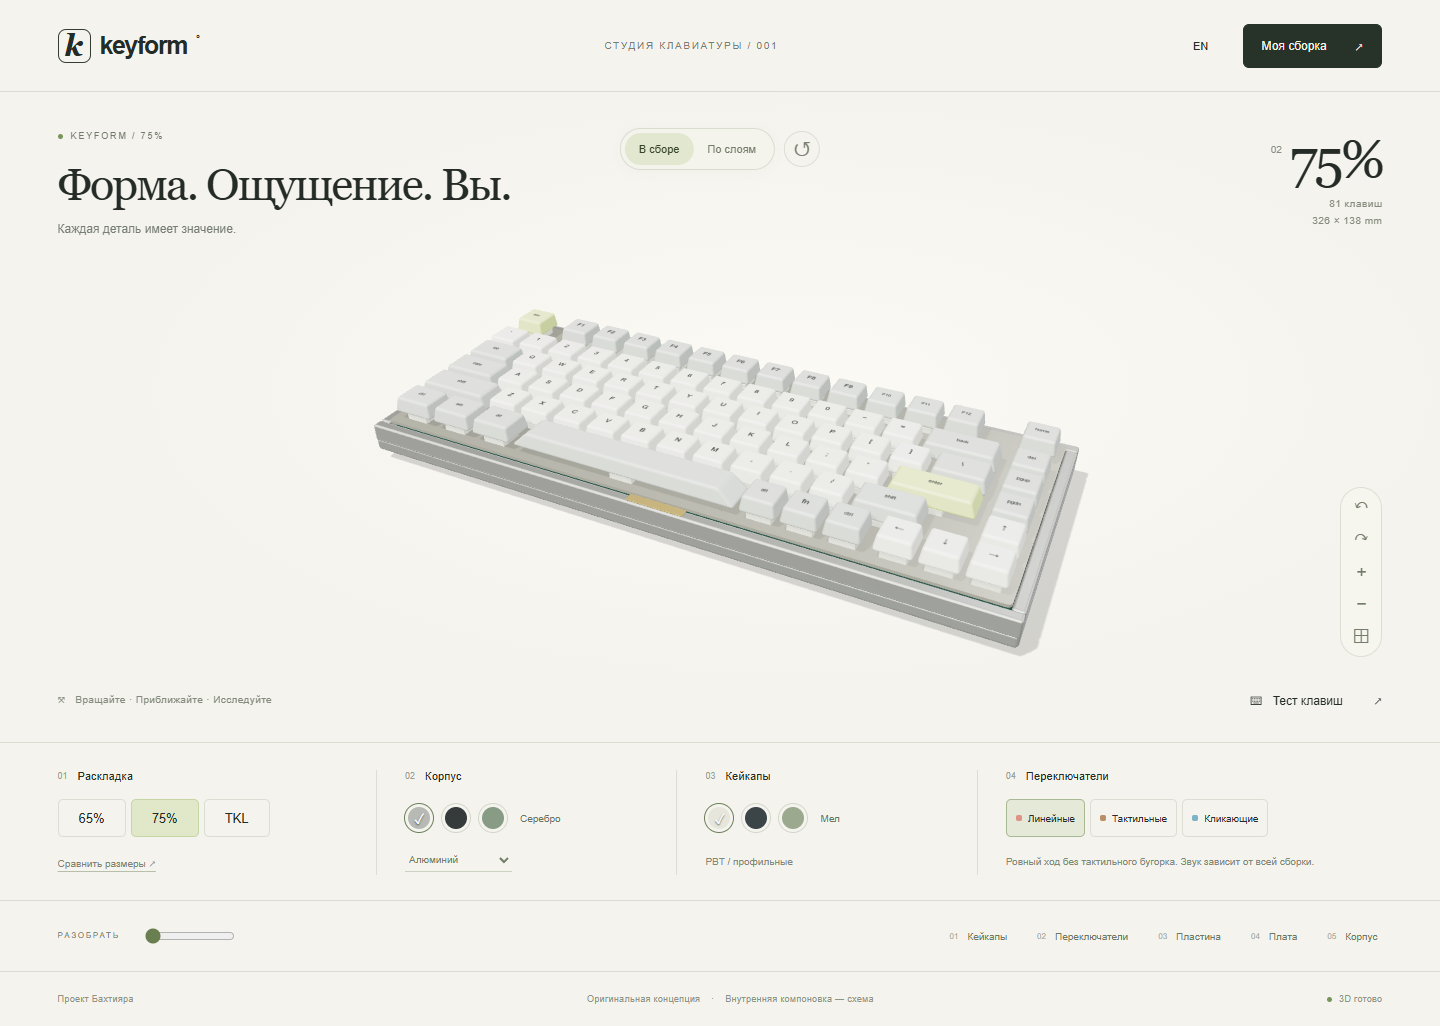
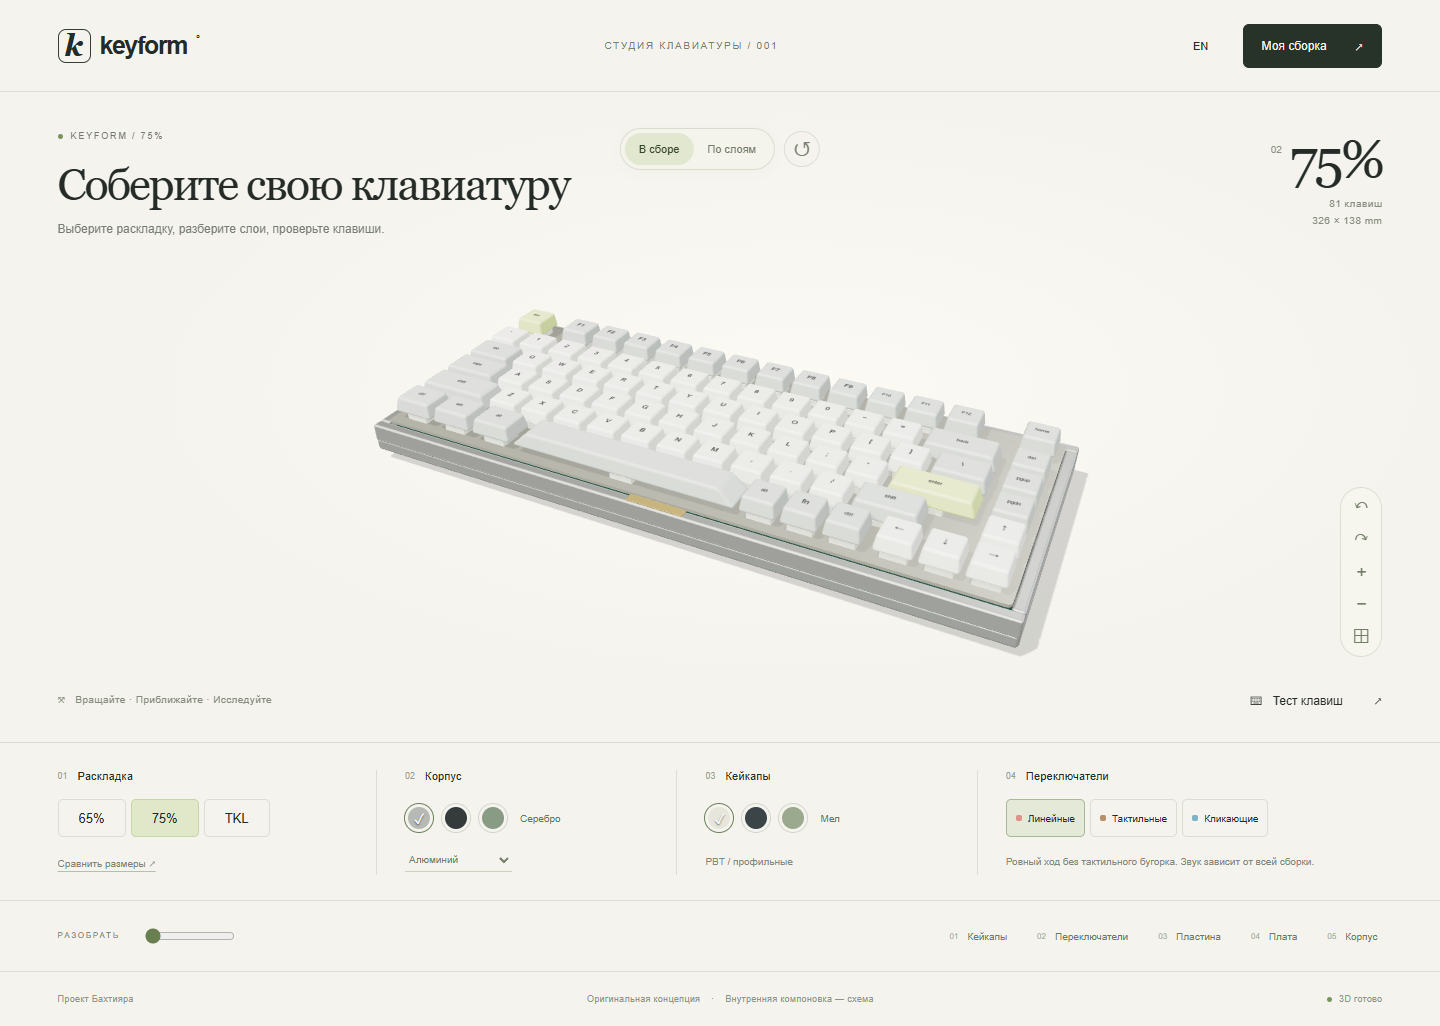
Replace hero slogans with direct keyboard instructions

Changed region(s): [[0.0312, 0.1559, 0.4062, 0.2495]]

diff --git a/src/App.tsx b/src/App.tsx
@@ -29,8 +29,8 @@ const words = {
   ru: {
     studio: "Студия клавиатуры",
     build: "Моя сборка",
-    title: "Форма. Ощущение. Вы.",
-    subtitle: "Каждая деталь имеет значение.",
+    title: "Соберите свою клавиатуру",
+    subtitle: "Выберите раскладку, разберите слои, проверьте клавиши.",
     layout: "Раскладка",
     compare: "Сравнить размеры",
     finish: "Корпус",
@@ -104,8 +104,8 @@ const words = {
   en: {
     studio: "Keyboard studio",
     build: "Your build",
-    title: "Form. Feel. Yours.",
-    subtitle: "Every detail makes a difference.",
+    title: "Build your keyboard",
+    subtitle: "Choose a layout, explore the layers, and test the keys.",
     layout: "Layout",
     compare: "Compare sizes",
     finish: "Case",

diff --git a/tests/flows.spec.ts b/tests/flows.spec.ts
@@ -186,7 +186,7 @@ test("RU/EN, mobile resize and touch, reduced motion", async ({ page }) => {
   await page.getByRole("button", { name: "Switch to English" }).click();
   await expect(page.locator("html")).toHaveAttribute("lang", "en");
   await expect(page.getByRole("heading", { level: 1 })).toHaveText(
-    "Form. Feel. Yours.",
+    "Build your keyboard",
   );
   await page.setViewportSize({ width: 390, height: 844 });
   await page.emulateMedia({ reducedMotion: "reduce" });

diff --git a/src/style.css b/src/style.css
@@ -1223,3 +1223,11 @@ dd {
 .without-webgl .drag-hint {
   display: none;
 }
+@media (max-width: 720px) {
+  .hero-caption p {
+    max-width: 88vw;
+  }
+  .stage-tools {
+    top: 176px;
+  }
+}
